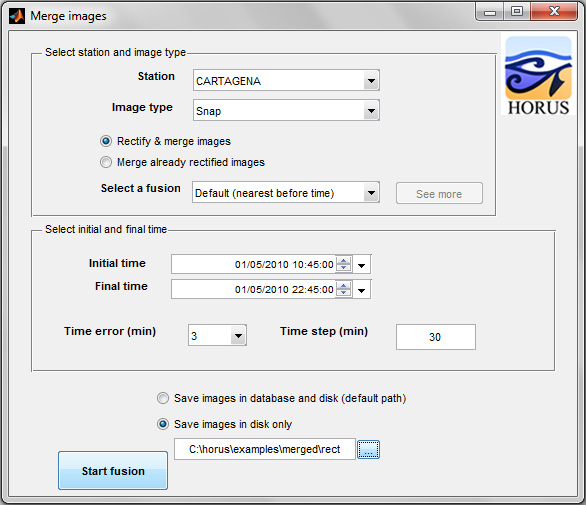
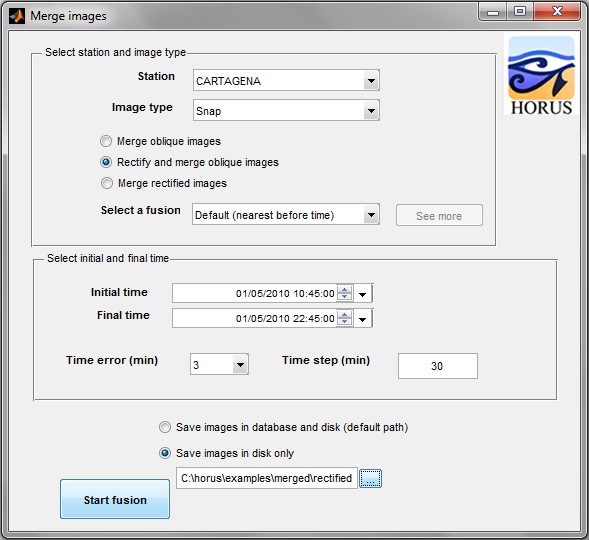
Se modificaron las imágenes de fusión tanto en el manual como en el tutorial, y se cambio load_fusion, en la parte del unique.

diff --git a/io/load_fusion.m b/io/load_fusion.m
@@ -70,7 +70,7 @@ try
         end
         fusion = get(cursor, 'Data'); % Organizar los datos
         data = cell(0);
-        [ids pos1 pos2 ] = unique(cell2mat(fusion(:, 2)), 'rows');
+        [ids pos1 pos2 ] = unique(cell2mat(fusion(:, 2)), 'rows','first');
         valuematrix=cell2mat(fusion(:,5:7));
         data{1} = cell2mat(fusion(1,1));
         data{2} = cell2mat(fusion(1,3));

diff --git a/src/merge_images.m b/src/merge_images.m
@@ -21,7 +21,9 @@ function [mergedimg in jn] = merge_images(img1, img2, H)
 %   $Date: 2011/10/28 17:31 $
 
 try
-    
+    mergedimg = [];
+    in = [];
+    jn = [];
     [h1 w1 o] = size(img1);
     [h2 w2 o] = size(img2);
     
